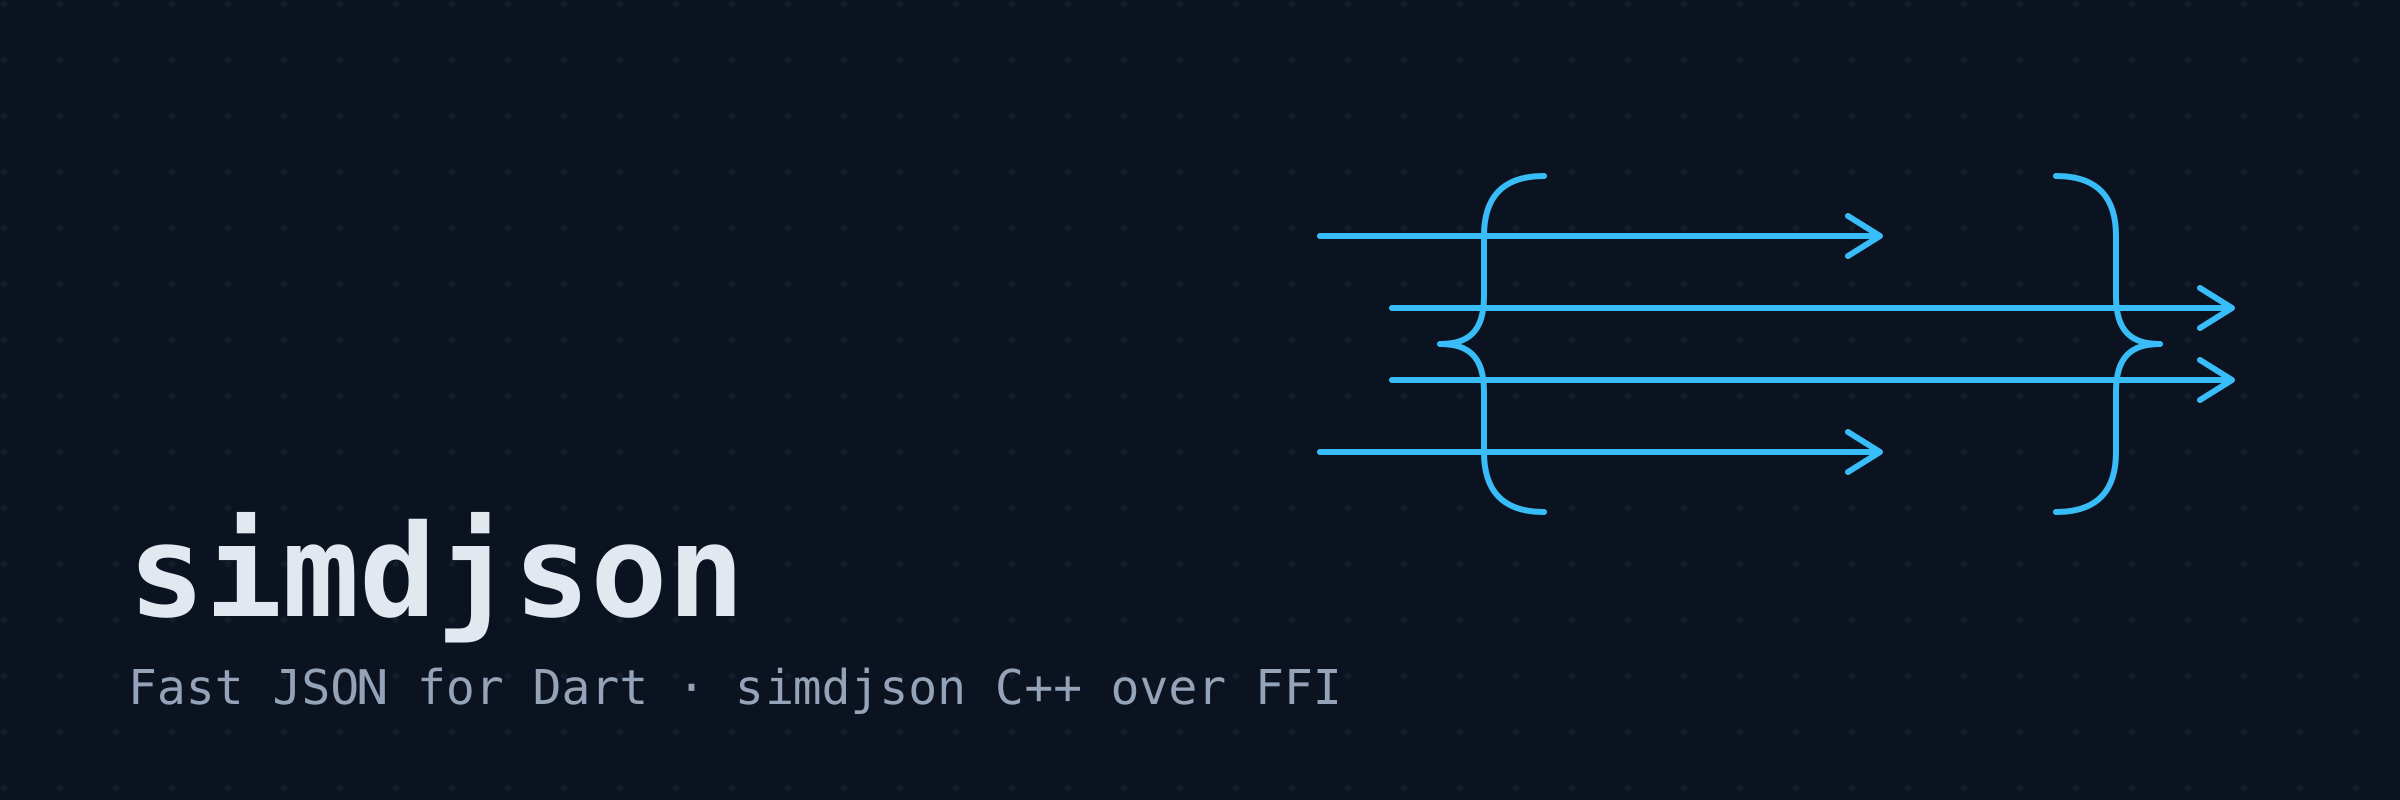
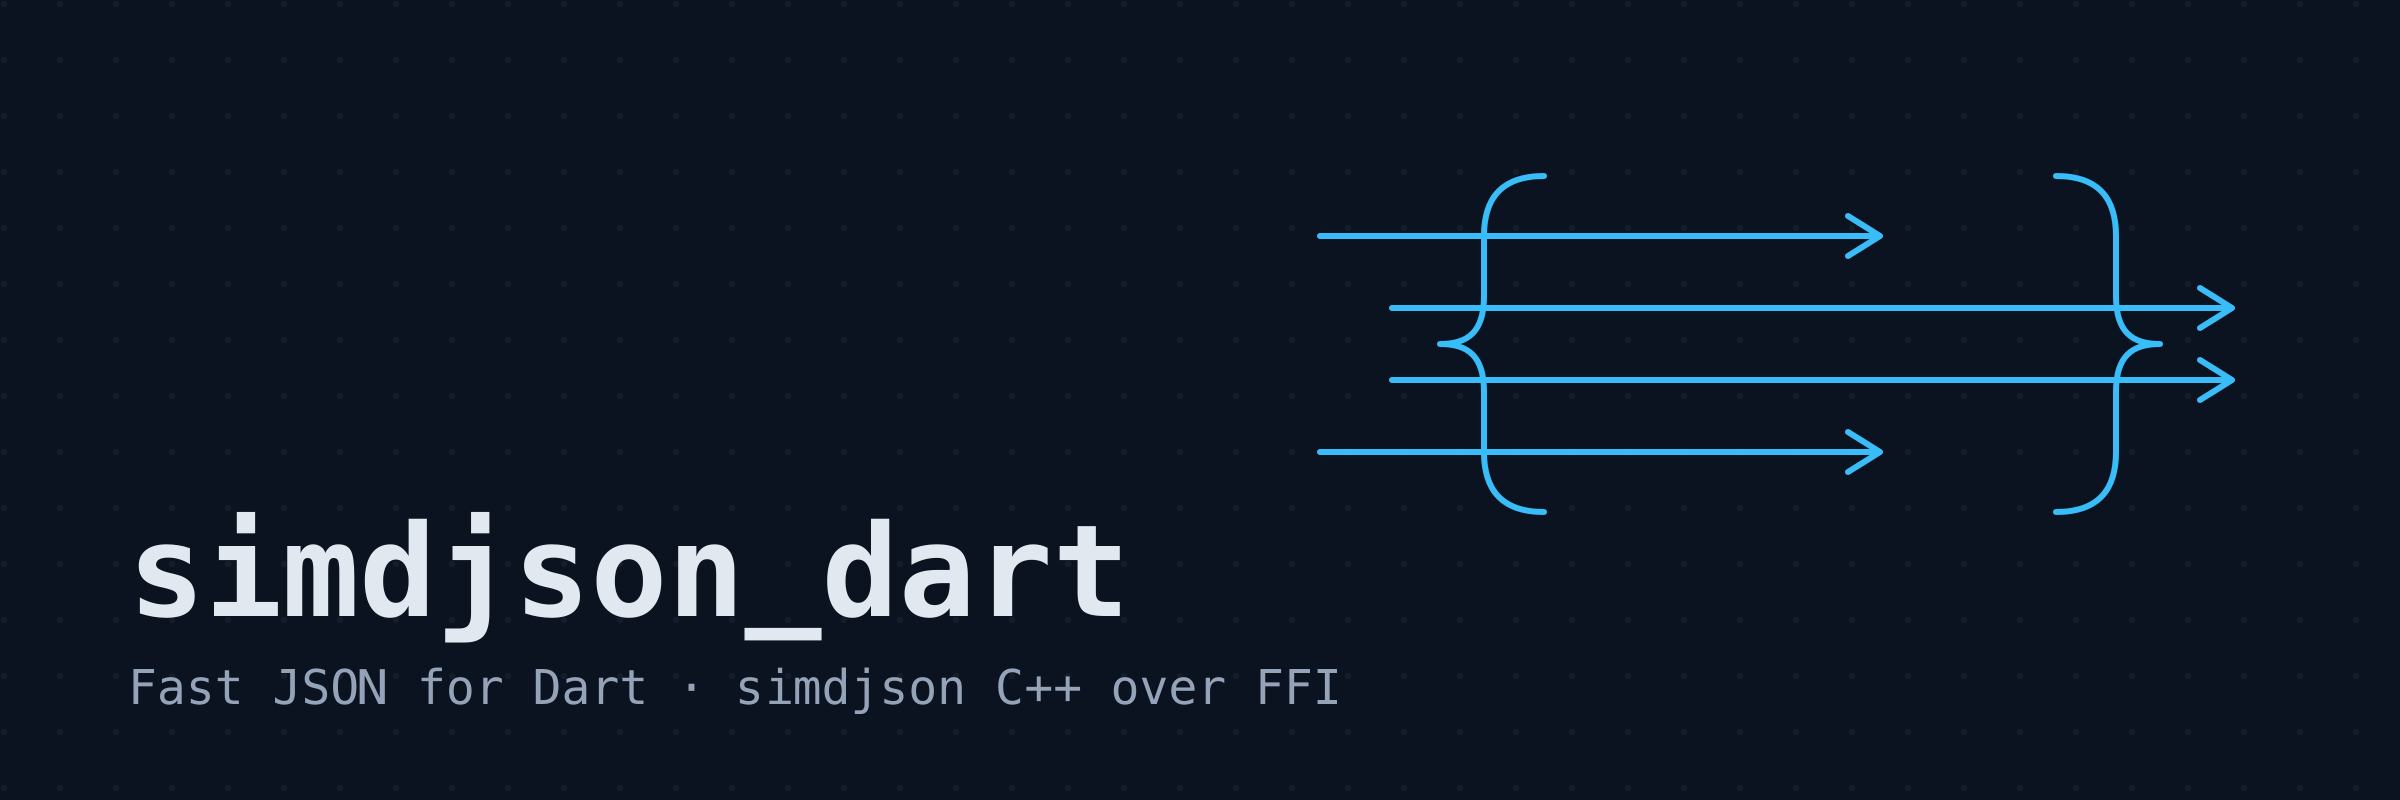
Rename package to simdjson_dart
pub.dev rejected the name simdjson as too similar to the existing
simd_json package. The library entry point, imports, banner, and
repository URL follow the new name.

Changed region(s): [[0.3438, 0.6562, 0.4688, 0.7812], [0.3125, 0.7812, 0.3438, 0.8125]]

diff --git a/bench/bench.dart b/bench/bench.dart
@@ -4,7 +4,7 @@ import 'dart:convert';
 import 'dart:math';
 import 'dart:typed_data';
 
-import 'package:simdjson/simdjson.dart';
+import 'package:simdjson_dart/simdjson_dart.dart';
 
 void main() {
   final workloads = <String, (String, List<String>)>{

diff --git a/example/simdjson_example.dart b/example/simdjson_example.dart
@@ -1,7 +1,7 @@
 import 'dart:convert';
 import 'dart:typed_data';
 
-import 'package:simdjson/simdjson.dart';
+import 'package:simdjson_dart/simdjson_dart.dart';
 
 void main() {
   final bytes = Uint8List.fromList(

diff --git a/test/decoder_test.dart b/test/decoder_test.dart
@@ -1,6 +1,6 @@
 import 'dart:convert';
 
-import 'package:simdjson/simdjson.dart';
+import 'package:simdjson_dart/simdjson_dart.dart';
 import 'package:test/test.dart';
 
 /// Inputs where simdJsonDecode must agree exactly with jsonDecode.

diff --git a/test/document_test.dart b/test/document_test.dart
@@ -1,6 +1,6 @@
 import 'dart:convert';
 
-import 'package:simdjson/simdjson.dart';
+import 'package:simdjson_dart/simdjson_dart.dart';
 import 'package:test/test.dart';
 
 void main() {

diff --git a/README.md b/README.md
@@ -1,6 +1,6 @@
 ![simdjson: fast JSON for Dart](doc/banner.png)
 
-# simdjson
+# simdjson_dart
 
 Fast JSON for Dart, powered by the [simdjson](https://simdjson.org) C++
 library over FFI. The native code is compiled automatically at build
@@ -15,7 +15,7 @@ Two APIs:
   the whole document, moderately faster on large byte inputs.
 
 ```dart
-import 'package:simdjson/simdjson.dart';
+import 'package:simdjson_dart/simdjson_dart.dart';
 
 // Selective access: parse 9 MB, materialize three values.
 final doc = SimdJsonDocument.parseBytes(bytes);